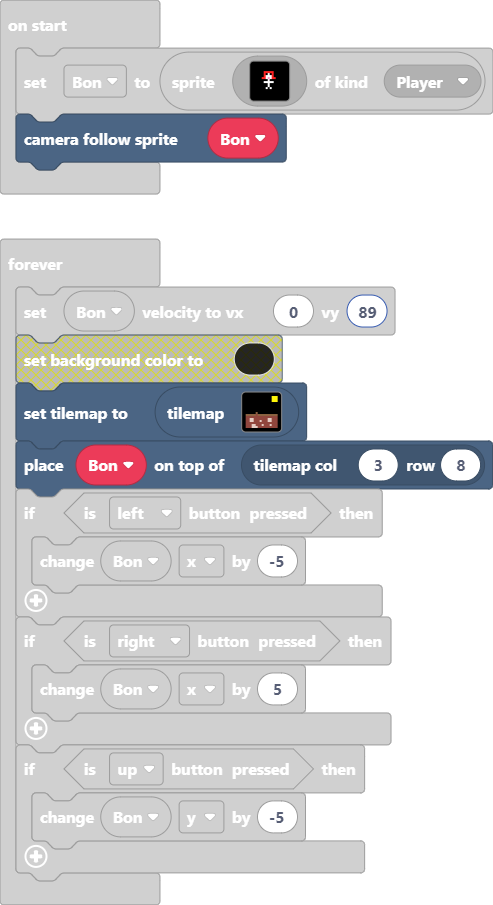
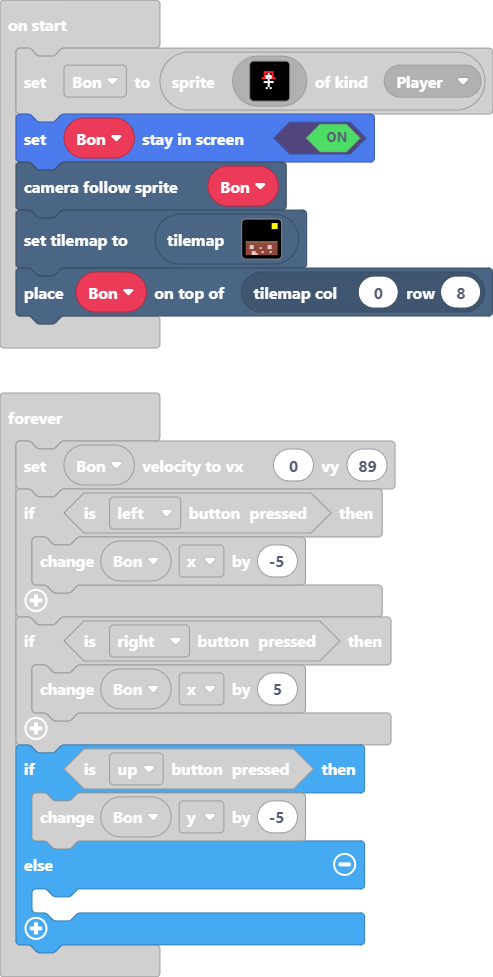
Update main.blocks, main.ts, tilemap.g.jres, tilemap.g.ts

diff --git a/tilemap.g.ts b/tilemap.g.ts
@@ -14,6 +14,8 @@ namespace myTiles {
     export const tile5 = image.ofBuffer(hex``);
     //% fixedInstance jres blockIdentity=images._tile
     export const tile6 = image.ofBuffer(hex``);
+    //% fixedInstance jres blockIdentity=images._tile
+    export const tile7 = image.ofBuffer(hex``);
 
     helpers._registerFactory("tilemap", function(name: string) {
         switch(helpers.stringTrim(name)) {
@@ -74,25 +76,6 @@ namespace myTiles {
 . . . . . . . . . . . . . . . . 
 . . . . . . . . . . . . . . . . 
 `, [myTiles.transparency16], TileScale.Sixteen);
-            case "level102":
-            case "level2":return tiles.createTilemap(hex`1000100002000000000000000000000002010101000000000000000000000002020101010000000000000000000002000201010100000000000000000002000002020202000000000000000000000000000000000000000000000000000000000000000000000000000200000000000000000000000000000002000000000000000000000000000000030000000000000000000003030303030403030303030303030303040404040404040404040404040404040404050504040404040404050504040404040505040404050404040505040404040404040404040404040404040404040404040505040404050404040504040404040405050504040404040404040404`, img`
-2 2 . . . . . . . . . . . . . . 
-2 2 . . . . . . . . . . . . . . 
-2 2 . . . . . . . . . . . . . . 
-2 2 . . . . . . . . . . . . . . 
-2 2 . . . . . . . . . . . . . . 
-2 2 . . . . . . . . . . . . . . 
-2 2 . . . . . . . . . . . . . . 
-2 2 . . . . . . . . . . . . . . 
-2 2 . . . 2 . . . . . . . . . . 
-2 2 2 2 2 2 2 2 2 2 2 2 2 2 2 2 
-2 2 2 2 2 2 2 2 2 2 2 2 2 2 2 2 
-2 2 2 2 2 2 2 2 2 2 2 2 2 2 2 2 
-2 2 2 2 2 2 2 2 2 2 2 2 2 2 2 2 
-2 2 2 2 2 2 2 2 2 2 2 2 2 2 2 2 
-2 2 2 2 2 2 2 2 2 2 2 2 2 2 2 2 
-2 2 2 2 2 2 2 2 2 2 2 2 2 2 2 2 
-`, [myTiles.transparency16,myTiles.tile1,myTiles.tile2,myTiles.tile4,myTiles.tile5,myTiles.tile6], TileScale.Sixteen);
             case "level5":
             case "level5":return tiles.createTilemap(hex`1000100000000000000000000000000000000000000000000000000000000000000000000000000000000000000000000000000000000000000000000000000000000000000000000000000000000000000000000000000000000000000000000000000000000000000000000000000000000000000000000000000000000000000000000000000000000000000000000000000000000000000000000000000000000000000000000000000000000000000000000000000000000000000000000000000000000000000000000000000000000000000000000000000000000000000000000000000000000000000000000000000000000000000000000000000000000000`, img`
 . . . . . . . . . . . . . . . . 
@@ -112,6 +95,44 @@ namespace myTiles {
 . . . . . . . . . . . . . . . . 
 . . . . . . . . . . . . . . . . 
 `, [myTiles.transparency16], TileScale.Sixteen);
+            case "level6":
+            case "level6":return tiles.createTilemap(hex`1000100000000000000000000000000000000000000000000000000000000000000000000000000000000000000000000000000000000000000000000000000000000000000000000000000000000000000000000000000000000000000000000000000000000000000000000000000000000000000000000000000000000000000000000000000000000000000000000000000000000000000000000000000000000000000000000000000000000000000000000000000000000000000000000000000000000000000000000000000000000000000000000000000000000000000000000000000000000000000000000000000000000000000000000000000000000000`, img`
+. . . . . . . . . . . . . . . . 
+. . . . . . . . . . . . . . . . 
+. . . . . . . . . . . . . . . . 
+. . . . . . . . . . . . . . . . 
+. . . . . . . . . . . . . . . . 
+. . . . . . . . . . . . . . . . 
+. . . . . . . . . . . . . . . . 
+. . . . . . . . . . . . . . . . 
+. . . . . . . . . . . . . . . . 
+. . . . . . . . . . . . . . . . 
+. . . . . . . . . . . . . . . . 
+. . . . . . . . . . . . . . . . 
+. . . . . . . . . . . . . . . . 
+. . . . . . . . . . . . . . . . 
+. . . . . . . . . . . . . . . . 
+. . . . . . . . . . . . . . . . 
+`, [myTiles.transparency16], TileScale.Sixteen);
+            case "level102":
+            case "level2":return tiles.createTilemap(hex`1000100000000000000000000000000002010101000200000000000000000002020101010000000000000000000002000201010100000000000000000002000002020202000000000000000000000000000000000000000000000000000000000000000000000000000200000000000000000000000000000002000000000000000000000000000000000000000000000000000003030303030303030303030303030303040404040404040404040404040404040404050504040404040404050504040404040505040404050404040505040404040404040404040404040404040404040404040505040404050404040504040404040405050504040404040404040404`, img`
+. . . . . . . . . . . . . . . . 
+. . . . . . . . . . . . . . . . 
+. . . . . . . . . . . . . . . . 
+. . . . . . . . . . . . . . . . 
+. . . . . . . . . . . . . . . . 
+. . . . . . . . . . . . . . . . 
+. . . . . . . . . . . . . . . . 
+. . . . . . . . . . . . . . . . 
+. . . . . . . . . . . . . . . . 
+2 2 2 2 2 2 2 2 2 2 2 2 2 2 2 2 
+. . . . . . . 2 2 2 2 2 . . . . 
+. . . . . . . . . . . . . . . . 
+. . . . . . . . . . . . . . . . 
+. . . . . . . . . . . . . . . . 
+. . . . . . . . . . . . . . . . 
+. . . . . . . . . . . . . . . . 
+`, [myTiles.transparency16,myTiles.tile1,myTiles.tile2,myTiles.tile4,myTiles.tile5,myTiles.tile6,myTiles.tile7], TileScale.Sixteen);
         }
         return null;
     })
@@ -131,6 +152,8 @@ namespace myTiles {
             case "tile5":return tile5;
             case "myTile1":
             case "tile6":return tile6;
+            case "myTile2":
+            case "tile7":return tile7;
         }
         return null;
     })

diff --git a/main.ts b/main.ts
@@ -1,7 +1,8 @@
 let Bon = sprites.create(assets.image`Bon`, SpriteKind.Player)
+Bon.setStayInScreen(true)
 scene.cameraFollowSprite(Bon)
 tiles.setCurrentTilemap(tilemap`level102`)
-tiles.placeOnTile(Bon, tiles.getTileLocation(3, 8))
+tiles.placeOnTile(Bon, tiles.getTileLocation(0, 8))
 forever(function () {
     Bon.setVelocity(0, 89)
     if (controller.left.isPressed()) {
@@ -12,5 +13,7 @@ forever(function () {
     }
     if (controller.up.isPressed()) {
         Bon.y += -5
+    } else {
+    	
     }
 })
